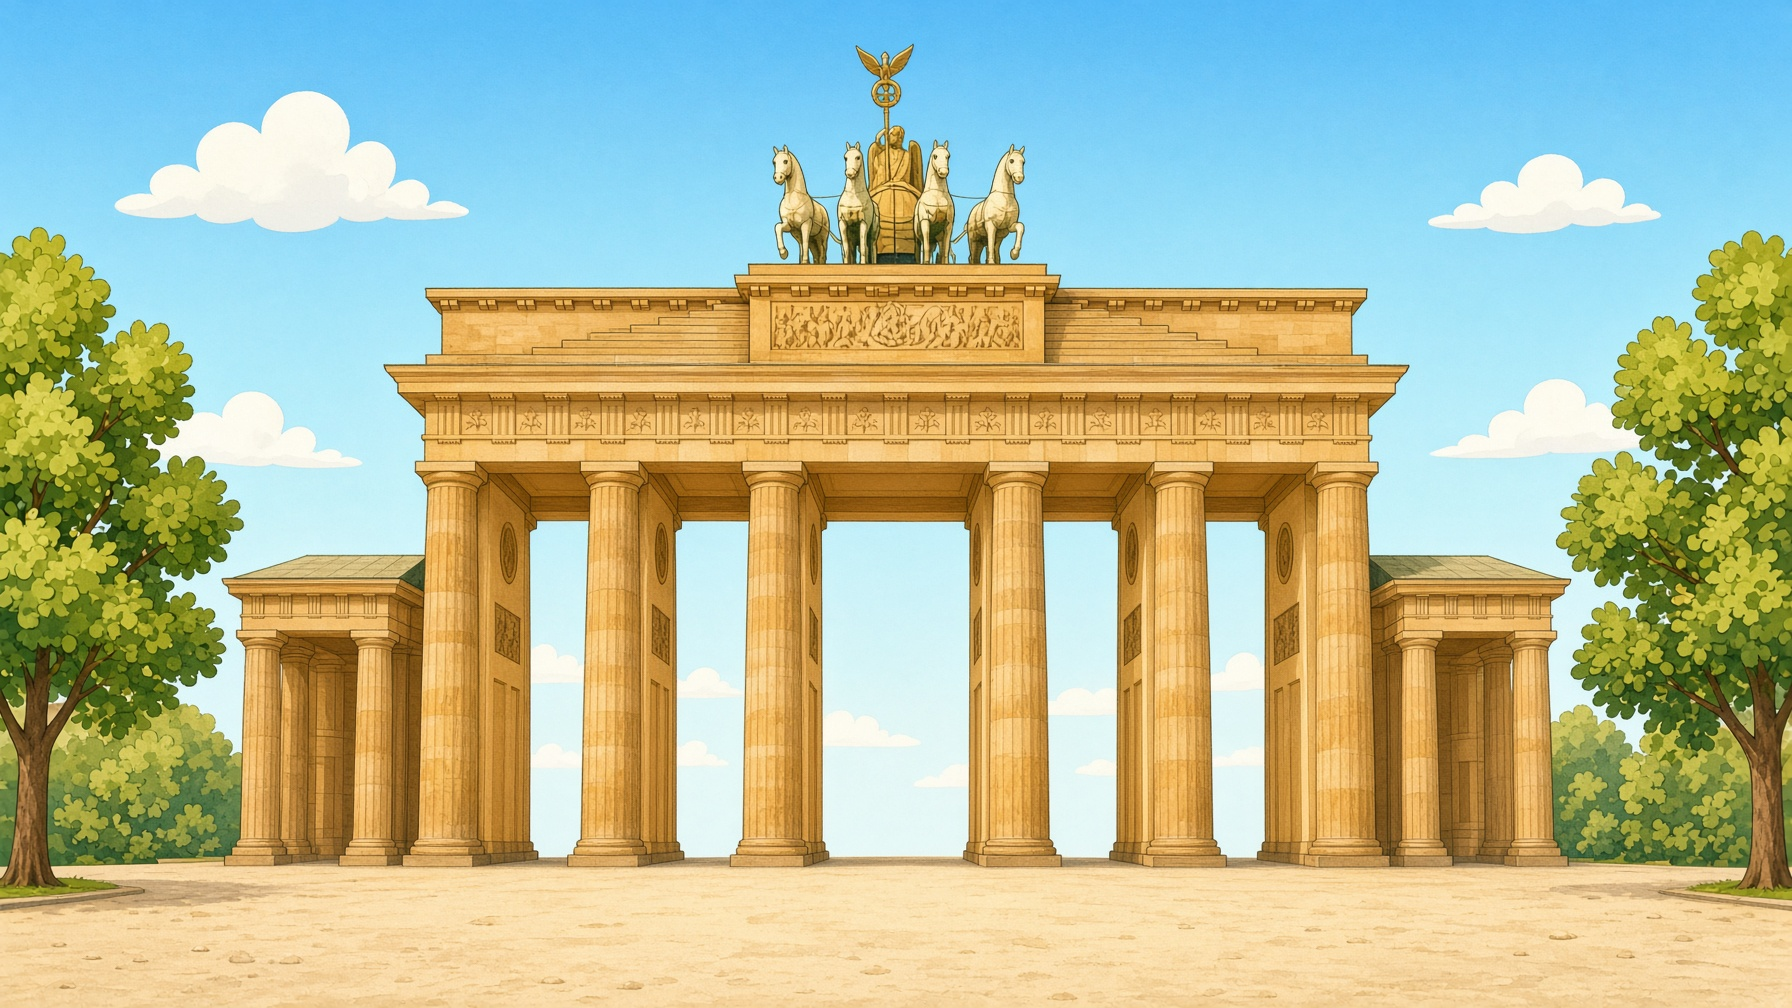
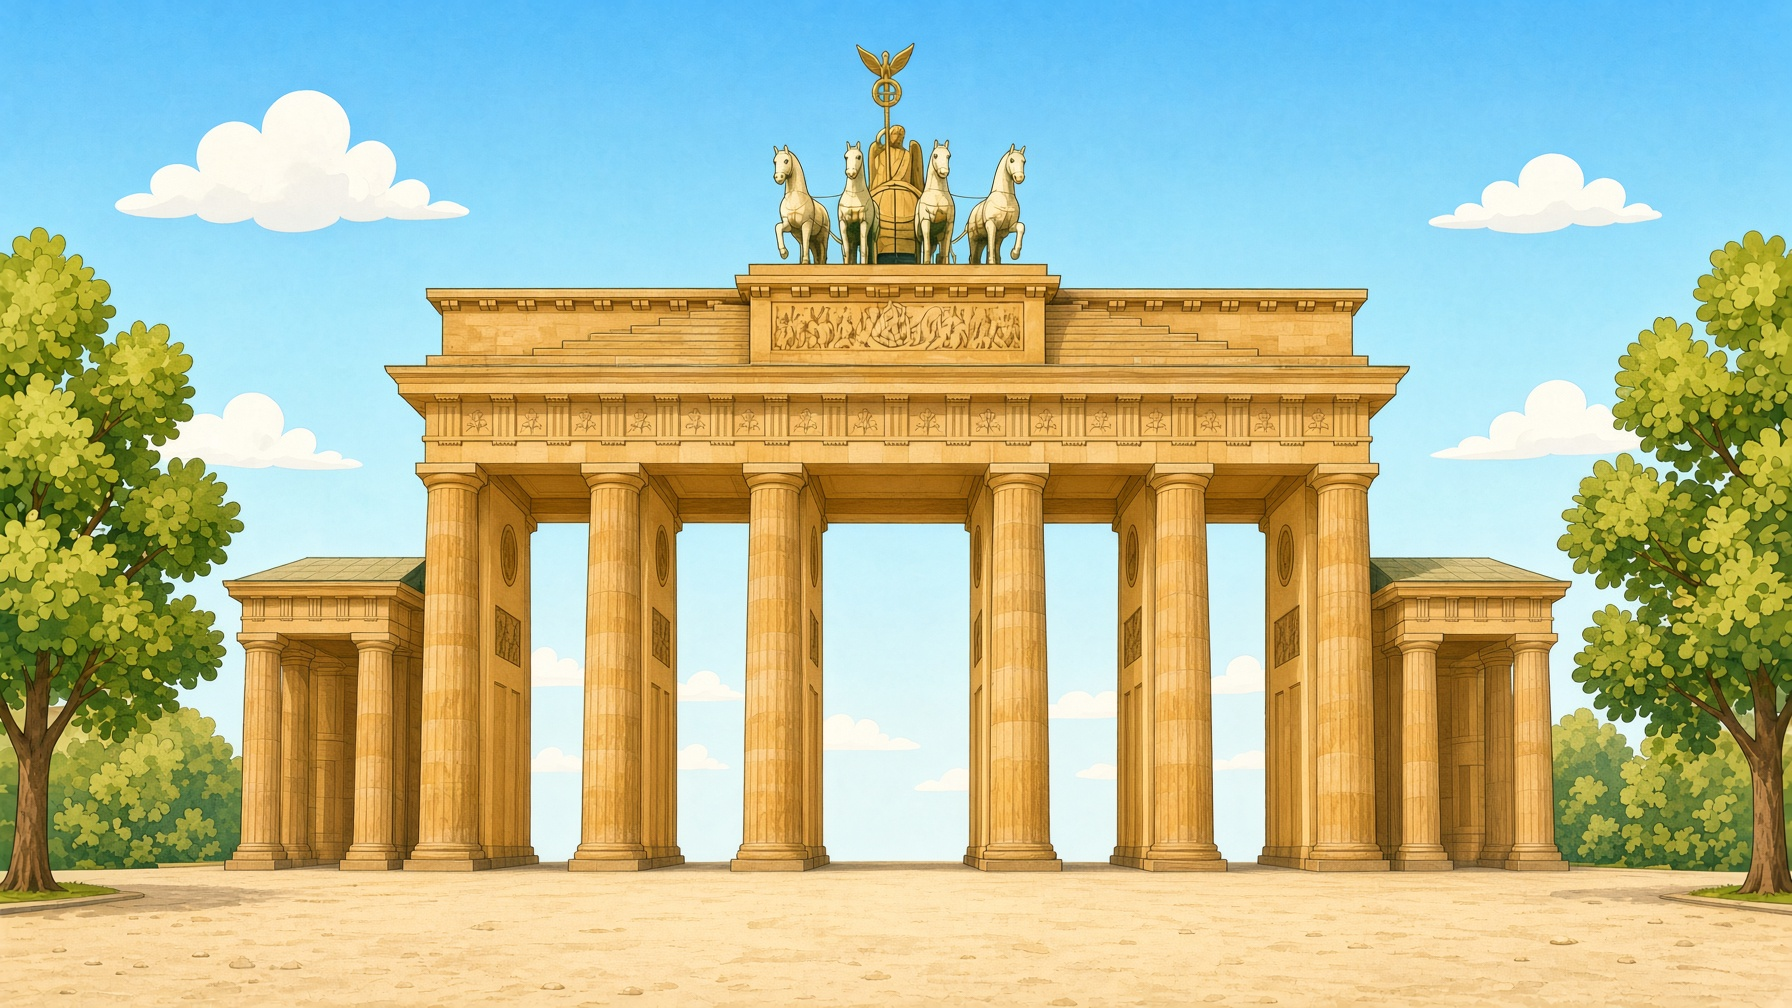
Straighten the cartoon Brandenburg Gate.
The gate is now level, with both wings the same height.

diff --git a/src/routes/index.tsx b/src/routes/index.tsx
@@ -10,7 +10,7 @@ function Home() {
     <main className="mx-auto grid max-w-3xl gap-4 px-4 py-10">
       <h1 className="text-3xl text-danube sm:text-4xl">A history of Germany for young learners.</h1>
       <img
-        src="/cartoon-brandenburg-gate.jpg"
+        src="/cartoon-brandenburg-gate.jpg?v=2"
         alt="A cartoon of the Brandenburg Gate"
         className="w-full rounded-lg border border-ink/15"
       />
